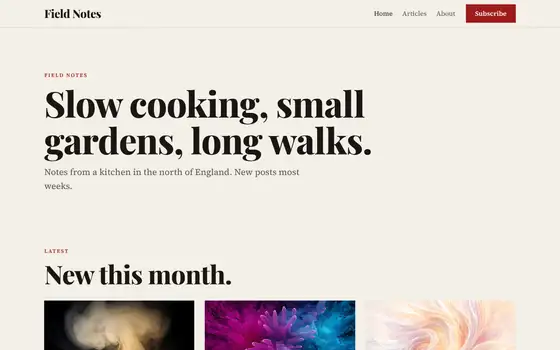
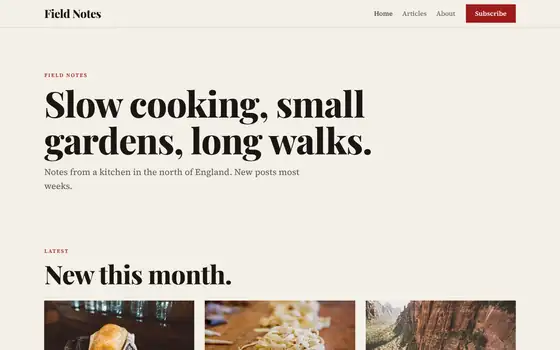
Site builder: templates use real photographs (coffee, restaurant, fitness, law, estate agent, wedding, podcast, docs, blog, nonprofit, app, photographer), refreshed thumbnails, heading wrap only on phones
Claude-Session: https://claude.ai/code/session_01KjCgApHxzQCxtiXf1eMKgi

Changed region(s): [[0.0607, 0.8571, 0.9411, 1.0]]

diff --git a/site/builder/templates2.js b/site/builder/templates2.js
@@ -10,11 +10,11 @@ add({id:'coffee',ctaLine:'Come in, we saved you a seat.',name:'Coffee shop and b
  footer:F('© 2027 Rye & Roast','Bread, coffee and not much else.','Pages','Home\nMenu\nOur bakers\nVisit','Follow','Instagram\nNewsletter','Say hello','hello@ryeandroast.example\n0161 000 0000'),
  pages:[
  {id:'home',name:'Home',title:'Rye & Roast · Bakery and coffee bar in Manchester',desc:'Slow-fermented bread, strong coffee and a warm room on Oak Street.',blocks:[
-  ['hero-image',{kicker:'Bakery and coffee bar · Manchester',heading:'Slow bread, strong coffee, warm mornings.',intro:'We bake every loaf for 36 hours and roast our coffee the day before it reaches your cup.',b1:'See the menu',b2:'Find us',img:'shelf/amber.webp',alt:'A glowing amber glaze, like a crust straight from the oven'},{0:'page:menu',1:'page:visit'}],
+  ['hero-image',{kicker:'Bakery and coffee bar · Manchester',heading:'Slow bread, strong coffee, warm mornings.',intro:'We bake every loaf for 36 hours and roast our coffee the day before it reaches your cup.',b1:'See the menu',b2:'Find us',img:'photos/drink-frothy-coffee-in-a-green-cup.webp',alt:'A frothy latte in a green cup on a wooden table'},{0:'page:menu',1:'page:visit'}],
   ['stats',{label:'The numbers',stats:'36 h | for every loaf to prove\n14 | loaves out of the oven by 7am\n6 | beans on rotation\n1 | very patient oven'}],
   ['feature-grid',{kicker:'What we do',heading:'A small menu, done properly.',intro:'Everything is made in the building. Most of it is gone by two.',items:'spark | Sourdough | Rye, spelt and a white loaf with a crackling crust.\nchat | Pastry | Laminated by hand: croissants, kouign-amann and a cardamom bun.\nbolt | Coffee | Espresso and filter from two roasters we visit twice a year.\nusers | Breakfast and lunch | Eggs, toasties and one soup that changes with the week.'}],
   ['quote',{quote:'The only place I will queue in the rain for. Get the cardamom bun.',name:'Priya Shah',role:'Regular, since opening week',initials:'PS'}],
-  ['gallery',{kicker:'Out of the oven',heading:'This morning.',images:'shelf/amber.webp | Honey glaze, still warm\nshelf/smoke.webp | Steam off the first batch\nshelf/sand.webp | Flour on the bench\nshelf/bloom.webp | Edible flowers on the tarts\nshelf/embroidery.webp | A scoring pattern, by hand\nshelf/sumi.webp | Rye, cut and dusted'}],
+  ['gallery',{kicker:'Out of the oven',heading:'This morning.',images:'photos/bakery-fresh-rustic-bread.webp | A rustic loaf, still warm\nphotos/bakery-mink-mingle-2017.webp | Croissants and pain au chocolat\nphotos/drink-black-coffee-cup.webp | Espresso, pulled slowly\nphotos/cafe-coffee-machine-grinding-beans.webp | Fresh grounds\nphotos/bakery-the-bakery.webp | The pastry counter\nphotos/cafe-copper-tea-kettles.webp | Tea, in copper'}],
   CTA('Come in, we saved you a seat.','Find us','page:visit')]},
  {id:'menu',name:'Menu',title:'Menu · Rye & Roast',desc:'Bread, pastry, coffee and lunch.',blocks:[
   H('Menu','Baked this morning.','Everything is made here and sold until it runs out.'),
@@ -45,7 +45,7 @@ add({id:'fitness',ctaLine:'Your first class is on us.',name:'Fitness studio',des
  {id:'classes',name:'Classes',title:'Classes · Forge',desc:'The weekly timetable and what each class is.',blocks:[
   H('Classes','Find the class that suits you.','Every class is scalable. If you can walk in, you can start.'),
   ['schedule',{kicker:'This week',heading:'The timetable.',rows:'Mon 06:30 | Strength | Jo | Floor 1\nMon 18:30 | Conditioning | Sam | Floor 1\nWed 07:00 | Strength | Jo | Floor 1\nThu 18:30 | Engine | Alex | Floor 2\nSat 09:00 | Everything | Jo and Sam | Floor 1\nSun 10:00 | Mobility | Alex | Studio'}],
-  ['feature-rows',{kicker:'The classes',heading:'Four ways to train.',rows:'Strength | Squat, press, pull and hinge with a coach on every set. | shelf/lion.webp\nConditioning | Short, hard, finished in 40 minutes. | shelf/ferro.webp\nEngine | Longer intervals to build the base under everything else. | shelf/threads.webp\nMobility | Slow work for joints, hips and shoulders. | shelf/sand.webp'}],
+  ['feature-rows',{kicker:'The classes',heading:'Four ways to train.',rows:'Strength | Squat, press, pull and hinge with a coach on every set. | photos/fitness-pair-of-8kg-dumbbells.webp\nConditioning | Short, hard, finished in 40 minutes. | photos/fitness-starting-line.webp\nEngine | Longer intervals to build the base under everything else. | photos/fitness-800-meter-line.webp\nMobility | Slow work for joints, hips and shoulders. | photos/fitness-oceanside-yoga.webp'}],
   ['sec-faq',{kicker:'First time',heading:'Before you come.',intro:'You do not need to be fit already.',button:'Ask a coach',qa:'What do I wear? | Anything you can move in. Trainers or bare feet.\nWhat if I am injured? | Tell the coach. Every movement can be changed.\nCan I bring a friend? | Yes. Members get a free guest pass each month.\nHow do I cancel? | One click in the app, no letters and no fees.'}]]},
  {id:'coaches',name:'Coaches',title:'Coaches · Forge',desc:'Meet the people who coach every class.',blocks:[
   H('Coaches','People who know your name.','Three coaches, one philosophy: do the basics well.'),
@@ -69,7 +69,7 @@ add({id:'law',ctaLine:'Talk to a partner this week.',name:'Law firm',desc:'Pract
   CTA('Talk to a partner this week.','Book a consultation','page:contact')]},
  {id:'practice',name:'Practice',title:'Practice areas · Hartley & Vane',desc:'What we advise on, and how we charge.',blocks:[
   H('Practice','What we advise on.','Plain advice, clear fees and no surprises.'),
-  ['feature-rows',{kicker:'In depth',heading:'Five areas of practice.',rows:'Company and commercial | From the first shareholder agreement to the sale of the business. | shelf/statue.webp\nProperty | Leases, purchases and development for owners and occupiers. | shelf/lighthouse.webp\nEmployment | Practical HR law for growing teams. | shelf/threads.webp'}],
+  ['feature-rows',{kicker:'In depth',heading:'Five areas of practice.',rows:'Company and commercial | From the first shareholder agreement to the sale of the business. | photos/office-old-books-on-bookshelf.webp\nProperty | Leases, purchases and development for owners and occupiers. | photos/property-apartment-building-balconies.webp\nEmployment | Practical HR law for growing teams. | photos/workspace-laptop-on-a-desk.webp'}],
   ['steps',{kicker:'How we work',heading:'From first call to completion.',steps:'Listen | A free 20-minute call to understand the problem.\nAdvise | A written plan with options and fixed fees.\nAct | We draft, negotiate and keep you updated weekly.\nCheck | A review after completion, so nothing is missed.'}],
   ['sec-faq',{kicker:'Fees',heading:'How we charge.',intro:'We prefer fixed fees where we can.',button:'Ask about fees',qa:'Do you offer fixed fees? | Yes, for most standard work. We agree it in writing first.\nIs the first call free? | Yes, twenty minutes, with a partner.\nHow quickly do you reply? | Within one working day, usually the same afternoon.\nDo you work with startups? | Yes, with fixed packages for formation and funding.'}]]},
  {id:'people',name:'People',title:'People · Hartley & Vane',desc:'The partners and team.',blocks:[
@@ -78,7 +78,7 @@ add({id:'law',ctaLine:'Talk to a partner this week.',name:'Law firm',desc:'Pract
   ['timeline',{kicker:'History',heading:'Thirty years in four lines.',events:'1994 | Founded | Two partners and one filing cabinet on George Street.\n2005 | Commercial property | Added a property team.\n2014 | Employment | Opened our employment practice.\n2024 | Today | Four partners, one very full diary.'}]]},
  {id:'insights',name:'Insights',title:'Insights · Hartley & Vane',desc:'Short guides for owners and landlords.',blocks:[
   H('Insights','Short guides, written by partners.','No jargon, no sales pitch.'),
-  ['blog',{kicker:'Latest',heading:'Recent guides.',button:'All guides',posts:'Property | 12 March | What to check before you sign a commercial lease | shelf/lighthouse.webp\nCompany | 4 March | Five clauses every shareholder agreement needs | shelf/statue.webp\nEmployment | 26 February | Changing a contract without a tribunal | shelf/threads.webp'}],
+  ['blog',{kicker:'Latest',heading:'Recent guides.',button:'All guides',posts:'Property | 12 March | What to check before you sign a commercial lease | photos/office-chantilly-library-study.webp\nCompany | 4 March | Five clauses every shareholder agreement needs | photos/office-on-the-shelf.webp\nEmployment | 26 February | Changing a contract without a tribunal | photos/workspace-books-pencils-laptop-and-iphon.webp'}],
   NEWS('Guides in your inbox.','One practical email a month, no spam.')]},
  {id:'contact',name:'Contact',title:'Contact · Hartley & Vane',desc:'Book a consultation or call the office.',blocks:[
   H('Contact','Tell us what you need.','A partner will reply within one working day.'),
@@ -90,15 +90,15 @@ add({id:'realestate',ctaLine:'Curious what your home is worth?',name:'Estate age
  footer:F('© 2027 Larch & Lane Ltd','Homes, found and sold with care.','Agency','Home\nHomes\nSelling\nTeam\nValuation','Follow','Instagram\nRightmove','Visit','hello@larchandlane.example\n020 7000 0000'),
  pages:[
  {id:'home',name:'Home',title:'Larch & Lane · Independent estate agents in south London',desc:'Sell or let your home with a local team that picks up the phone.',blocks:[
-  ['hero-image',{kicker:'Independent estate agents · South London',heading:'Selling homes the way neighbours would.',intro:'Honest valuations, beautiful photography and one agent from first viewing to completion.',b1:'Free valuation',b2:'See homes',img:'shelf/lighthouse.webp',alt:'A lighthouse standing against the evening sky, a symbol of finding home'},{0:'page:valuation',1:'page:homes'}],
+  ['hero-image',{kicker:'Independent estate agents · South London',heading:'Selling homes the way neighbours would.',intro:'Honest valuations, beautiful photography and one agent from first viewing to completion.',b1:'Free valuation',b2:'See homes',img:'photos/property-living-room.webp',alt:'A bright living room with a blue sofa and herringbone floor'},{0:'page:valuation',1:'page:homes'}],
   ['stats',{label:'Our record',stats:'97% | of asking price achieved\n24 days | average time to offer\n480 | homes sold last year\n4.9 | from 310 reviews'}],
-  ['product-grid',{kicker:'Featured',heading:'On the market now.',items:'Garden flat, Peckham | £485,000 | New | shelf/bloom.webp\nTerrace, Brockley | £725,000 |  | shelf/amber.webp\nLoft, Bermondsey | £610,000 | Offers | shelf/statue.webp\nCottage, Forest Hill | £895,000 |  | shelf/tree.webp'},{0:'page:homes',1:'page:homes',2:'page:homes',3:'page:homes',4:'page:homes'}],
+  ['product-grid',{kicker:'Featured',heading:'On the market now.',items:'Garden flat, Peckham | £485,000 | New | photos/property-colorful-apartment-building.webp\nTerrace, Brockley | £725,000 |  | photos/property-apartment-complex.webp\nLoft, Bermondsey | £610,000 | Offers | photos/property-apartment-building-balconies.webp\nCottage, Forest Hill | £895,000 |  | photos/property-coffee-table-corner-in-a-londo.webp'},{0:'page:homes',1:'page:homes',2:'page:homes',3:'page:homes',4:'page:homes'}],
   ['steps',{kicker:'Selling with us',heading:'Four steps to sold.',steps:'Value | A free, honest valuation with comparable sales.\nPrepare | Photography, floorplan and a listing that tells the story.\nMarket | Online, to our buyers list and in the window.\nComplete | One agent chases every step until the keys change hands.'}],
   ['quote',{quote:'They sold in nine days at above asking, and kept us calm the whole time.',name:'Tom and Lena Hart',role:'Sold in Brockley',initials:'TH'}],
   CTA('Curious what your home is worth?','Free valuation','page:valuation')]},
  {id:'homes',name:'Homes',title:'Homes for sale · Larch & Lane',desc:'Current properties for sale and to let.',blocks:[
   H('Homes','Homes for sale and to let.','Updated every morning by the people who show them.'),
-  ['product-grid',{kicker:'For sale',heading:'Buying.',items:'Garden flat, Peckham | £485,000 | New | shelf/bloom.webp\nTerrace, Brockley | £725,000 |  | shelf/amber.webp\nLoft, Bermondsey | £610,000 | Offers | shelf/statue.webp\nCottage, Forest Hill | £895,000 |  | shelf/tree.webp\nMews, Dulwich | £1,150,000 | New | shelf/lighthouse.webp\nStudio, New Cross | £310,000 |  | shelf/sand.webp'},{0:'page:valuation',1:'page:valuation',2:'page:valuation',3:'page:valuation',4:'page:valuation',5:'page:valuation',6:'page:valuation'}],
+  ['product-grid',{kicker:'For sale',heading:'Buying.',items:'Garden flat, Peckham | £485,000 | New | photos/property-colorful-apartment-building.webp\nTerrace, Brockley | £725,000 |  | photos/property-apartment-complex.webp\nLoft, Bermondsey | £610,000 | Offers | photos/property-apartment-building-balconies.webp\nCottage, Forest Hill | £895,000 |  | photos/property-coffee-table-corner-in-a-londo.webp\nMews, Dulwich | £1,150,000 | New | photos/property-apartment-high-rise-building.webp\nStudio, New Cross | £310,000 |  | photos/property-living-room.webp'},{0:'page:valuation',1:'page:valuation',2:'page:valuation',3:'page:valuation',4:'page:valuation',5:'page:valuation',6:'page:valuation'}],
   ['sec-faq',{kicker:'Buying',heading:'Questions from buyers.',intro:'Ask us anything about a home or the process.',button:'Ask a question',qa:'Can I view at the weekend? | Yes, Saturdays and most Sundays.\nDo you help with mortgages? | We introduce trusted independent advisers, with no obligation.\nHow do offers work? | You offer through us, we present it the same day and keep you updated.'}]]},
  {id:'selling',name:'Selling',title:'Selling your home · Larch & Lane',desc:'How we sell, what we charge and what to expect.',blocks:[
   H('Selling','How we sell your home.','A clear plan, a fixed fee and weekly updates.'),
@@ -118,7 +118,7 @@ add({id:'wedding',ctaLine:'Will you join us?',name:'Wedding',desc:'Our story, th
  footer:F('© 2027 Ella & Sam','We cannot wait to celebrate with you.','Pages','Home\nOur story\nThe day\nStay\nRSVP','Questions','ellaandsam@example.com','Dates','RSVP by 1 August'),
  pages:[
  {id:'home',name:'Home',title:'Ella & Sam · 20 September 2027',desc:'Join us to celebrate our wedding in the Cotswolds.',blocks:[
-  ['hero-image',{kicker:'20 September 2027 · The Cotswolds',heading:'Ella and Sam are getting married.',intro:'We would love you to be there. Everything you need is on these pages.',b1:'RSVP',b2:'The day',img:'shelf/dove.webp',alt:'A white dove in flight in soft light'},{0:'page:rsvp',1:'page:day'}],
+  ['hero-image',{kicker:'20 September 2027 · The Cotswolds',heading:'Ella and Sam are getting married.',intro:'We would love you to be there. Everything you need is on these pages.',b1:'RSVP',b2:'The day',img:'photos/wedding-aisle-for-a-wedding.webp',alt:'An aisle lined with gold chairs and pink and white flowers'},{0:'page:rsvp',1:'page:day'}],
   ['countdown',{kicker:'Save the date',heading:'Not long now.',intro:'Please reply by 1 August so we can plan the long table.',date:'2027-09-20',button:'RSVP'},{0:'page:rsvp'}],
   ['feature-grid',{kicker:'At a glance',heading:'What to know.',intro:'The essentials, in short.',items:'calendar | When | Saturday 20 September 2027, ceremony at 2pm.\npin | Where | Hallow Barn, Burford, Oxfordshire.\nheart | Dress | Garden party: colour welcome, flat shoes advised.\nusers | Children | Very welcome, with a play corner and a sitter.'}],
   ['quote',{quote:'We met in a queue for coffee. We have been in each other’s line ever since.',name:'Ella and Sam',role:'Our story, short version',initials:'ES'}],
@@ -126,14 +126,14 @@ add({id:'wedding',ctaLine:'Will you join us?',name:'Wedding',desc:'Our story, th
  {id:'story',name:'Our story',title:'Our story · Ella & Sam',desc:'How we met and how Sam proposed.',blocks:[
   H('Our story','How it began.','Seven years, two cities, one very patient dog.'),
   ['timeline',{kicker:'Timeline',heading:'Seven years in five moments.',events:'2020 | The queue | A coffee shop in Bristol, a wrong order and a long chat.\n2021 | First trip | A rainy weekend in Cornwall, still our favourite.\n2023 | Together | Moved in, adopted Biscuit the dog.\n2026 | The question | A proposal on the cliffs, with the dog as witness.\n2027 | The day | Surrounded by everyone we love.'}],
-  ['gallery',{kicker:'Photos',heading:'A few favourites.',images:'shelf/bloom.webp | Flowers from the first date\nshelf/embroidery.webp | A hand-stitched gift\nshelf/dove.webp | The dove that visited our proposal\nshelf/origami.webp | A crane from Sam’s grandmother'}]]},
+  ['gallery',{kicker:'Photos',heading:'A few favourites.',images:'photos/wedding-bujenka-poland.webp | Flowers for the day\nphotos/wedding-bridal-chair.webp | Shoes and a bouquet\nphotos/wedding-church-on-the-morning-of-the-w.webp | A quiet moment\nphotos/wedding-32.webp | Rings'}]]},
  {id:'day',name:'The day',title:'The day · Ella & Sam',desc:'Timings, venue and travel.',blocks:[
   H('The day','What happens when.','A relaxed day with plenty of time to talk.'),
   ['schedule',{kicker:'Saturday 20 September',heading:'The plan.',rows:'13:30 | Arrival and welcome drinks | Everyone | The orchard\n14:00 | Ceremony | Ella and Sam | The barn\n15:00 | Drinks and photographs | Everyone | The lawn\n17:30 | Wedding breakfast | Long table | The barn\n20:00 | Dancing | Everyone | The barn\n23:30 | Last song | Everyone | The barn'}],
   ['map-embed',{kicker:'Venue',heading:'Hallow Barn.',address:'Hallow Barn, Burford, Oxfordshire OX18 4AA',hours:'Parking | On site, free\nTaxis | We have booked shuttles after dinner',button:'Get directions',maplink:'https://www.openstreetmap.org/search?query=Burford%20Oxfordshire'}]]},
  {id:'stay',name:'Stay',title:'Stay · Ella & Sam',desc:'Where to stay and how to get there.',blocks:[
   H('Stay','Where to stay.','A few places nearby that we love.'),
-  ['feature-rows',{kicker:'Nearby',heading:'Our suggestions.',rows:'The Swan Inn | Ten minutes’ walk, a block of rooms held in our name until 1 July. | shelf/amber.webp\nBurford Cottages | Self-catering for families, a short drive. | shelf/tree.webp\nThe Old Mill | A quieter stay by the river, twenty minutes by car. | shelf/sand.webp'}],
+  ['feature-rows',{kicker:'Nearby',heading:'Our suggestions.',rows:'The Swan Inn | Ten minutes’ walk, a block of rooms held in our name until 1 July. | photos/nature-lush-mountain-landscape.webp\nBurford Cottages | Self-catering for families, a short drive. | photos/nature-mountain-lake-in-the-summer.webp\nThe Old Mill | A quieter stay by the river, twenty minutes by car. | photos/nature-green-mountain-landscape.webp'}],
   ['sec-faq',{kicker:'Travel',heading:'Getting there.',intro:'Short answers to the usual questions.',button:'Email us',qa:'How do I get there by train? | Charlbury is the nearest station; shuttles run from 1pm.\nIs there parking? | Yes, free on site.\nWhat if it rains? | The barn has room for everyone. Bring a coat anyway.'}]]},
  {id:'rsvp',name:'RSVP',title:'RSVP · Ella & Sam',desc:'Let us know if you can come.',blocks:[
   H('RSVP','Will you be there?','Please reply by 1 August.'),
@@ -146,12 +146,12 @@ add({id:'podcast',ctaLine:'Press play on something slow.',name:'Podcast or creat
  {id:'home',name:'Home',title:'Slow Radio · A weekly podcast about careful making',desc:'Conversations at walking pace with potters, bakers, printers and other people who take their time.',blocks:[
   ['hero-split',{film:'lissajous-drawing',kicker:'A weekly podcast',heading:'Conversations at walking pace.',intro:'Every Thursday, one maker, one hour and no rush. Listen to potters, printers, bakers and people who take their time.',b1:'Latest episode',b2:'All episodes',note:'New episode every Thursday'},{0:'page:episodes',1:'page:episodes'}],
   ['stats',{label:'The show',stats:'112 | episodes so far\n48,000 | listeners a month\n4.9 | rating on Apple Podcasts\n1 | very good microphone'}],
-  ['blog',{kicker:'Latest',heading:'Recent episodes.',button:'All episodes',posts:'Episode 112 | 4 March | The potter who fires only once a year | shelf/amber.webp\nEpisode 111 | 25 February | Why a printer kept her father’s press | shelf/threads.webp\nEpisode 110 | 18 February | Baking for a village of 400 | shelf/smoke.webp'},{0:'page:episodes'}],
+  ['blog',{kicker:'Latest',heading:'Recent episodes.',button:'All episodes',posts:'Episode 112 | 4 March | The potter who fires only once a year | photos/podcast-blue-condenser-microphone.webp\nEpisode 111 | 25 February | Why a printer kept her father’s press | photos/podcast-elegant-steel-microphone.webp\nEpisode 110 | 18 February | Baking for a village of 400 | photos/podcast-microphone.webp'},{0:'page:episodes'}],
   ['press',{label:'What people say',quotes:'The calmest hour of my week. | The Maker’s Journal\nProof that slow radio is good radio. | Culture Weekly'}],
   NEWS('Notes from the studio.','One short email a week, with the episode and what we are reading.','Join')]},
  {id:'episodes',name:'Episodes',title:'Episodes · Slow Radio',desc:'Every episode of Slow Radio.',blocks:[
   H('Episodes','Every episode.','Newest first. Listen here or wherever you get podcasts.'),
-  ['blog',{kicker:'2027',heading:'This year.',button:'Subscribe',posts:'Episode 112 | 4 March | The potter who fires only once a year | shelf/amber.webp\nEpisode 111 | 25 February | Why a printer kept her father’s press | shelf/threads.webp\nEpisode 110 | 18 February | Baking for a village of 400 | shelf/smoke.webp\nEpisode 109 | 11 February | Fixing furniture for a living | shelf/sand.webp\nEpisode 108 | 4 February | The last hand-tuned piano in Leeds | shelf/sumi.webp\nEpisode 107 | 28 January | A year of mending everything | shelf/embroidery.webp'}],
+  ['blog',{kicker:'2027',heading:'This year.',button:'Subscribe',posts:'Episode 112 | 4 March | The potter who fires only once a year | photos/podcast-blue-condenser-microphone.webp\nEpisode 111 | 25 February | Why a printer kept her father’s press | photos/podcast-elegant-steel-microphone.webp\nEpisode 110 | 18 February | Baking for a village of 400 | photos/podcast-microphone.webp\nEpisode 109 | 11 February | Fixing furniture for a living | photos/podcast-ben-koorengevel-2017-03-17.webp\nEpisode 108 | 4 February | The last hand-tuned piano in Leeds | photos/podcast-jonathan-velasquez-2016.webp\nEpisode 107 | 28 January | A year of mending everything | photos/podcast-kai-oberh-user-2016-02-26.webp'}],
   ['integrations',{kicker:'Listen',heading:'Wherever you listen.',intro:'Subscribe and never miss an episode.',tools:'Apple Podcasts | Follow and rate us\nSpotify | Listen on your commute\nOvercast | For the long walk\nRSS | Use any player'}]]},
  {id:'about',name:'About',title:'About · Slow Radio',desc:'About the host and the show.',blocks:[
   H('About','Hello, I’m Mira.','I make a podcast about people who take their time.'),
@@ -169,7 +169,7 @@ add({id:'docs',ctaLine:'Draw your first chart in five minutes.',name:'Documentat
  {id:'home',name:'Home',title:'Plume · Documentation',desc:'Everything you need to draw fast, accessible charts with Plume.',blocks:[
   ['hero-center',{badge:'v2.4',news:'Faster rendering, smaller bundles',heading:'Charts that load in a blink.',intro:'Plume is a 6 KB library for drawing accessible charts in the browser. These docs take you from install to production.',b1:'Get started',b2:'Reference',proof:'Used by 4,000 projects'},{1:'page:start',2:'page:reference'}],
   ['feature-grid',{kicker:'Why Plume',heading:'Small, fast, accessible.',intro:'Built for people who care about the details.',items:'bolt | Fast | Draws 10,000 points in under 16 ms on a mid-range phone.\nshield | Accessible | Keyboard navigation, screen reader summaries and colour-safe palettes by default.\nspark | Tiny | 6 KB gzipped, no dependencies, tree-shakeable.\ncode | Friendly | A small API with TypeScript types and plenty of examples.'}],
-  ['tabs',{kicker:'Quick look',heading:'Three lines to a chart.',tabs:'Install | npm install plume | Add Plume with your package manager, or load it from a CDN. | shelf/threads.webp\nDraw | plume.line(el, data) | Pass an element and an array of numbers or dates. | shelf/nebula.webp\nStyle | plume.theme(\'calm\') | Pick a theme or set your own colours and fonts. | shelf/sand.webp'}],
+  ['tabs',{kicker:'Quick look',heading:'Three lines to a chart.',tabs:'Install | npm install plume | Add Plume with your package manager, or load it from a CDN. | photos/tech-code-on-computer-monitor.webp\nDraw | plume.line(el, data) | Pass an element and an array of numbers or dates. | photos/tech-lines-of-code.webp\nStyle | plume.theme(\'calm\') | Pick a theme or set your own colours and fonts. | photos/tech-colorful-lines-of-code.webp'}],
   ['integrations',{kicker:'Works with',heading:'Fits your stack.',intro:'Official adapters for popular frameworks.',tools:'React | A hook and a component\nVue | A composable\nSvelte | An action\nPlain HTML | One script tag'}],
   CTA('Draw your first chart in five minutes.','Get started','page:start')]},
  {id:'start',name:'Get started',title:'Get started · Plume',desc:'Install Plume and draw your first chart.',blocks:[
@@ -235,7 +235,7 @@ L({id:'lp-launch',name:'Landing: product launch',desc:'Announce a product with a
  CTA('Hear it before it’s loud.','Start free','#')]);
 
 L({id:'lp-app',name:'Landing: app download',desc:'A phone-first page with store buttons and reasons to download.',brand:'Ledger',style:'ds:D46',siteDesc:'Ledger is a calm personal finance app. Download it free on iPhone and Android.',line:'Calm personal finance.'},[
- ['hero-image',{kicker:'Free on iPhone and Android',heading:'Money, without the knot in your stomach.',intro:'Ledger sorts every payment, shows what is safe to spend and nudges you before bills land.',b1:'Get the app',b2:'See how it works',img:'shelf/bloom.webp',alt:'Soft colour blooming outwards, calm and unhurried'}],
+ ['hero-image',{kicker:'Free on iPhone and Android',heading:'Money, without the knot in your stomach.',intro:'Ledger sorts every payment, shows what is safe to spend and nudges you before bills land.',b1:'Get the app',b2:'See how it works',img:'photos/workspace-books-pencils-laptop-and-iphon.webp',alt:'A laptop, notebooks and a phone on a tidy desk'}],
  ['stats',{label:'In numbers',stats:'£356 | saved in three months, on average\n22,000 | people budgeting with Ledger\n0 | adverts, ever\n4.8 | average rating'}],
  ['feature-grid',{kicker:'Features',heading:'The quiet details.',intro:'Built to be opened for ten seconds, not ten minutes.',items:'chart | Safe to spend | One number for the rest of the month.\nbolt | Bill nudges | A gentle note before money leaves.\nusers | Shared budgets | One view for two people.\nlock | Bank-grade security | Read-only access, nothing stored on our side.'}],
  ['app-download',{film:'pigment-bloom',kicker:'On your phone',heading:'Take it with you.',intro:'Free on iPhone and Android.'}],

diff --git a/site/builder/templates.js b/site/builder/templates.js
@@ -99,7 +99,7 @@ add({id:'restaurant',ctaLine:'Come hungry.',name:'Restaurant',desc:'Menu, story,
  {id:'home',name:'Home',title:'Saffron & Salt · Fire-cooked food in East London',desc:'A neighbourhood restaurant cooking over fire. Book a table.',blocks:[
   ['hero-film',{film:'smoke-plume',kicker:'Tuesday to Sunday',heading:'Cooked over fire, shared at the table.',intro:'Seasonal plates from a wood-burning kitchen in Hackney. Good wine, no fuss.',b1:'Book a table',b2:'See the menu'},{0:'page:visit',1:'page:menu'}],
   ['statement',{kicker:'Our idea',text:'We cook what the market has on the day, over embers, and put it in the middle of the table so everyone can reach it.'}],
-  ['feature-rows',{kicker:'The kitchen',heading:'Simple, then smoky.',rows:'Fire first | Everything touches the embers: bread, fish, vegetables and the occasional pudding. | shelf/amber.webp\nMarket led | We buy from three farms and one fishmonger, and print the menu each morning. | shelf/bloom.webp\nPour well | A short list of small growers, natural where it’s good and classic where it’s better. | shelf/smoke.webp'}],
+  ['feature-rows',{kicker:'The kitchen',heading:'Simple, then smoky.',rows:'Fire first | Everything touches the embers: bread, fish, vegetables and the occasional pudding. | photos/food-handmade-pasta-noodles.webp\nMarket led | We buy from three farms and one fishmonger, and print the menu each morning. | photos/food-gluten-free-gnocchi.webp\nPour well | A short list of small growers, natural where it’s good and classic where it’s better. | photos/food-bread-on-the-table.webp'}],
   ['press',{label:'Said about us',quotes:'The best bread basket in Hackney. | London Eats\nFire, salt and nothing to hide behind. | The Weekend Paper'}],
   CTA('Come hungry.','Book a table','page:visit')]},
  {id:'menu',name:'Menu',title:'Menu · Saffron & Salt',desc:'This week’s menu.',blocks:[
@@ -120,14 +120,14 @@ add({id:'photographer',ctaLine:'Let’s make something.',name:'Photographer',des
  pages:[
  {id:'home',name:'Home',title:'Elio Marsh · Documentary and portrait photographer',desc:'Photographs of people, places and quiet moments.',blocks:[
   ['hero-film',{film:'suminagashi',kicker:'Documentary and portrait',heading:'Pictures that wait for the moment.',intro:'Commissions, editorial and long-form projects across Europe.',b1:'View portfolio',b2:'Book a shoot'},{0:'page:portfolio',1:'page:contact'}],
-  ['gallery',{kicker:'Recent',heading:'Latest frames.',images:'shelf/lighthouse.webp | Lighthouse at dusk\nshelf/statue.webp | Marble, morning\nshelf/tree.webp | The old oak\nshelf/lion.webp | Gate, Lisbon\nshelf/jellyfish.webp | Aquarium, night\nshelf/biolum.webp | Bioluminescence'}],
+  ['gallery',{kicker:'Recent',heading:'Latest frames.',images:'photos/nature-alpine-landscape.webp | Alpine light\nphotos/city-flatiron-at-night.webp | Flatiron at night\nphotos/nature-mountain-lake.webp | A mountain lake\nphotos/city-city-from-docks-at-night.webp | Harbour lights\nphotos/nature-flachau-mountain-valley.webp | Valley, late sun\nphotos/city-bogot-city-and-street-lights.webp | Street lights, Bogotá'}],
   ['press',{label:'Published in',quotes:'Quietly devastating. | The Weekend Paper\nA photographer with patience. | Frame Monthly'}],
   CTA('Let’s make something.','Book a shoot','page:contact')]},
  {id:'portfolio',name:'Portfolio',title:'Portfolio · Elio Marsh',desc:'Series and commissions.',blocks:[
   H('Portfolio','Series and commissions.','Long projects first, then single assignments.'),
   ['case-study',{client:'Series · The last ferry',heading:'Six months on the Douro.',img:'films/golden-dove.jpg',alt:'A golden dove in flight',results:'62 | frames in the book\n3 | countries exhibited\n1 | cover story',challenge:'Documenting a river crossing that was about to end.',approach:'Riding the ferry every week and learning the names of regulars.'}],
   ['image-full',{img:'films/pigment-bloom.jpg',alt:'Pigment blooming in water',caption:'Pigment study, from the Douro series.'}],
-  ['gallery',{kicker:'More',heading:'Selected portraits.',images:'shelf/embroidery.webp | The seamstress\nshelf/owl.webp | Owl\nshelf/dove.webp | Dove\nshelf/amber.webp | Amber'}]]},
+  ['gallery',{kicker:'More',heading:'Selected portraits.',images:'photos/nature-green-mountain-landscape.webp | Green hills\nphotos/nature-mountain-lake-in-the-summer.webp | Lake in summer\nphotos/city-city-night-lights.webp | Lights on the water\nphotos/city-new-york-city-center-street-at.webp | City at night'}]]},
  {id:'about',name:'About',title:'About · Elio Marsh',desc:'About Elio.',blocks:[
   H('About','I photograph what people don’t notice.','Based in Porto, working everywhere.'),
   ['rich-text',{kicker:'Biography',heading:'Fifteen years, one camera at a time.',paras:'I studied documentary photography in Newcastle and have worked for magazines, charities and small companies ever since.\nI believe the best photographs are patient ones. I spend time with people before I lift the camera.\nMy work has been exhibited in Porto, Berlin and Arles.'}],
@@ -168,13 +168,13 @@ add({id:'blog',ctaLine:'Never miss a note.',name:'Personal blog',desc:'Index, an
   H('Archive','All articles.','Everything, newest first.'),
   ['x-posts',{kicker:'Everything',heading:'Every post.',count:'100'}]]},
  {id:'steak',name:'Why we rest every steak',kind:'post',date:'2027-03-12',title:'Why we rest every steak for exactly as long as it cooked · Field Notes',desc:'Why we rest every steak for exactly as long as it cooked',blocks:[
-  ['blog-post',{tag:'Technique',heading:'Why we rest every steak for exactly as long as it cooked',author:'Maya Okafor',date:'12 March 2027',read:'5 min read',img:'films/smoke-plume.jpg',alt:'Steam rising from a pan',paras:'Resting meat is the oldest advice in the kitchen and the least followed. The reason is simple: heat pushes juice towards the centre, and a few quiet minutes let it spread back out.\n## What we tested\nWe cut forty steaks at one, five and ten minutes. The difference in what ended up on the board was not subtle.\n> Rest for as long as it cooked, loosely covered, somewhere warm. Then slice.\n## The rule\n- Cook to a few degrees under your target\n- Rest loosely covered, for as long as it cooked\n- Slice across the grain',initials:'MO',bio:'Writes Field Notes from a kitchen in the north of England.'}],
+  ['blog-post',{tag:'Technique',heading:'Why we rest every steak for exactly as long as it cooked',author:'Maya Okafor',date:'12 March 2027',read:'5 min read',img:'photos/food-bread-on-the-table.webp',alt:'A loaf of bread in a wire basket on a cloth',paras:'Resting meat is the oldest advice in the kitchen and the least followed. The reason is simple: heat pushes juice towards the centre, and a few quiet minutes let it spread back out.\n## What we tested\nWe cut forty steaks at one, five and ten minutes. The difference in what ended up on the board was not subtle.\n> Rest for as long as it cooked, loosely covered, somewhere warm. Then slice.\n## The rule\n- Cook to a few degrees under your target\n- Rest loosely covered, for as long as it cooked\n- Slice across the grain',initials:'MO',bio:'Writes Field Notes from a kitchen in the north of England.'}],
   NEWS('Liked this?','The next one lands next month.')]},
  {id:'rhubarb',name:'Forced rhubarb, four ways',kind:'post',date:'2027-03-04',title:'Forced rhubarb, and four things to do with it · Field Notes',desc:'Forced rhubarb, and four things to do with it',blocks:[
-  ['blog-post',{tag:'Seasonal',heading:'Forced rhubarb, and four things to do with it',author:'Maya Okafor',date:'4 March 2027',read:'4 min read',img:'films/pigment-bloom.jpg',alt:'Pink and magenta pigment blooming in water',paras:'Forced rhubarb is the brightest thing in the market in February, and it asks for very little.\n## Roast it\nToss in sugar and orange zest and roast until it just gives. Spoon over yoghurt.\n## Pickle it\nA quick pickle makes a sharp, pink relish for fish and rich meats.\n> The trick is to stop a minute before you think you should.\n## And the other two\n- Poach it in elderflower syrup\n- Fold it into a crumble with oats and butter',initials:'MO',bio:'Writes Field Notes from a kitchen in the north of England.'}],
+  ['blog-post',{tag:'Seasonal',heading:'Forced rhubarb, and four things to do with it',author:'Maya Okafor',date:'4 March 2027',read:'4 min read',img:'photos/food-handmade-pasta-noodles.webp',alt:'Fresh handmade pasta laid out on a wooden board',paras:'Forced rhubarb is the brightest thing in the market in February, and it asks for very little.\n## Roast it\nToss in sugar and orange zest and roast until it just gives. Spoon over yoghurt.\n## Pickle it\nA quick pickle makes a sharp, pink relish for fish and rich meats.\n> The trick is to stop a minute before you think you should.\n## And the other two\n- Poach it in elderflower syrup\n- Fold it into a crumble with oats and butter',initials:'MO',bio:'Writes Field Notes from a kitchen in the north of England.'}],
   NEWS('Liked this?','The next one lands next month.')]},
  {id:'wind',name:'A small garden in a very large wind',kind:'post',date:'2027-02-26',title:'A small garden in a very large wind · Field Notes',desc:'A small garden in a very large wind',blocks:[
-  ['blog-post',{tag:'Garden',heading:'A small garden in a very large wind',author:'Maya Okafor',date:'26 February 2027',read:'3 min read',img:'films/petal-swirl.jpg',alt:'Petals swirling in the wind',paras:'Our garden is eleven paces long and faces the sea. Everything that grows here has learned to lean.\n## What survives\nSea kale, rosemary, hardy geraniums and one stubborn fig that sulks every March.\n## What does not\nAnything tall. Anything proud. Anything that cost more than a fiver.\n> A windbreak is not a wall. It is a conversation with the weather.',initials:'MO',bio:'Writes Field Notes from a kitchen in the north of England.'}],
+  ['blog-post',{tag:'Garden',heading:'A small garden in a very large wind',author:'Maya Okafor',date:'26 February 2027',read:'3 min read',img:'photos/nature-lush-mountain-landscape.webp',alt:'A lush green mountain landscape',paras:'Our garden is eleven paces long and faces the sea. Everything that grows here has learned to lean.\n## What survives\nSea kale, rosemary, hardy geraniums and one stubborn fig that sulks every March.\n## What does not\nAnything tall. Anything proud. Anything that cost more than a fiver.\n> A windbreak is not a wall. It is a conversation with the weather.',initials:'MO',bio:'Writes Field Notes from a kitchen in the north of England.'}],
   NEWS('Liked this?','The next one lands next month.')]},
  {id:'about',name:'About',title:'About · Field Notes',desc:'About the blog.',blocks:[
   H('About','Hello, I’m Maya.','I write about the small things that make a day better.'),
@@ -205,7 +205,7 @@ add({id:'shop',ctaLine:'Find something small and good.',name:'Shop / product lau
 add({id:'nonprofit',ctaLine:'Help us keep the door open.',name:'Nonprofit',desc:'Mission, programmes, donate and get involved.',brand:'Open Door',style:'kit:civic',cta:['Donate','donate'],siteDesc:'Open Door provides warm meals, a quiet room and someone to talk to.',footer:[0,{line:'Warm meals and someone to talk to.',c1:'About',links1:'Home\nProgrammes\nGet involved\nDonate',c2:'Follow',links2:'Facebook\nInstagram',c3:'Contact',links3:'hello@opendoor.example\n020 7946 0000',legal:'Registered charity 000000'}],
  pages:[
  {id:'home',name:'Home',title:'Open Door · Warm meals and someone to talk to',desc:'A neighbourhood charity for people who are lonely, hungry or in between homes.',blocks:[
-  ['hero-image',{kicker:'Spring appeal · £36,400 raised so far',heading:'Warm meals, and someone to talk to.',intro:'Open Door has been a neighbourhood table for 18 years. Everyone is welcome and nobody is asked why.',b1:'Donate',b2:'Our programmes',img:'shelf/dove.webp',alt:'A white dove in soft light, a symbol of welcome'},{0:'page:donate',1:'page:programmes'}],
+  ['hero-image',{kicker:'Spring appeal · £36,400 raised so far',heading:'Warm meals, and someone to talk to.',intro:'Open Door has been a neighbourhood table for 18 years. Everyone is welcome and nobody is asked why.',b1:'Donate',b2:'Our programmes',img:'photos/food-latte-and-croissant.webp',alt:'Croissants and a latte on a table, set for a warm welcome'},{0:'page:donate',1:'page:programmes'}],
   ['stats',{label:'Last year',stats:'12,000 | hot meals\n420 | people welcomed\n86 | volunteers\n18 | years open'}],
   ['feature-grid',{kicker:'What we do',heading:'Three ways we help.',intro:'',items:'home | A warm place | A quiet room open six days a week.\nheart | A hot meal | Cooked fresh, every lunchtime.\nchat | Someone to talk to | Trained volunteers and a friendly ear.'}],
   ['quote',{quote:'I walked in for soup and left with a friend.',name:'Gerry',role:'Guest since 2021',initials:'G'}],
@@ -213,7 +213,7 @@ add({id:'nonprofit',ctaLine:'Help us keep the door open.',name:'Nonprofit',desc:
  {id:'programmes',name:'Programmes',title:'Programmes · Open Door',desc:'What we run each week.',blocks:[
   H('Programmes','What happens at Open Door.','Free, drop-in and open to everyone.'),
   ['schedule',{kicker:'Every week',heading:'The week at a glance.',rows:'Mon | Lunch and chat | Volunteers | Hall\nWed | Advice drop-in | Citizens Advice | Room 2\nThu | Choir | Open to all | Hall\nSat | Big breakfast | Everyone | Hall'}],
-  ['feature-rows',{kicker:'Stories',heading:'What it looks like.',rows:'Lunch for everyone | Hot, fresh and served at tables with real plates. | shelf/amber.webp\nA quiet room | Books, tea and time. | shelf/sumi.webp'}]]},
+  ['feature-rows',{kicker:'Stories',heading:'What it looks like.',rows:'Lunch for everyone | Hot, fresh and served at tables with real plates. | photos/cafe-coffee-in-montreal.webp\nA quiet room | Books, tea and time. | photos/office-old-books-on-bookshelf.webp'}]]},
  {id:'involved',name:'Get involved',title:'Get involved · Open Door',desc:'Volunteer or fundraise.',blocks:[
   H('Get involved','Give an afternoon.','Volunteers are the heart of Open Door.'),
   ['steps',{kicker:'Volunteer',heading:'How it works.',steps:'Say hello | Fill in a short form or drop in on a Monday.\nGet to know us | A chat and a shadowing shift.\nJoin the rota | Pick a regular slot that suits you.'}],
@@ -248,7 +248,7 @@ add({id:'course',ctaLine:'Your first cylinder awaits.',name:'Online course',desc
 add({id:'app',ctaLine:'Take it with you.',name:'App landing',desc:'Hero, features, pricing and download.',brand:'Ledger',style:'ds:D46',cta:['Get the app','download'],siteDesc:'Ledger sorts every payment and shows what is safe to spend.',footer:[0,{line:'Calm personal finance.',c1:'App',links1:'Home\nFeatures\nPricing\nDownload',c2:'Company',links2:'About\nCareers\nPress',c3:'Legal',links3:'Privacy\nTerms\nSecurity',legal:'© 2027 Ledger Ltd. Authorised by the FCA.'}],
  pages:[
  {id:'home',name:'Home',title:'Ledger · Calm personal finance',desc:'Ledger sorts every payment and shows what is safe to spend.',blocks:[
-  ['hero-image',{kicker:'New · shared budgets for couples',heading:'Money, without the knot in your stomach.',intro:'Ledger sorts every payment, shows what’s safe to spend and nudges you before bills land. Rated 4.8 by 22,000 people.',b1:'Get the app',b2:'See features',img:'shelf/bloom.webp',alt:'Soft colour blooming outwards, calm and unhurried'},{0:'page:download',1:'page:features'}],
+  ['hero-image',{kicker:'New · shared budgets for couples',heading:'Money, without the knot in your stomach.',intro:'Ledger sorts every payment, shows what’s safe to spend and nudges you before bills land. Rated 4.8 by 22,000 people.',b1:'Get the app',b2:'See features',img:'photos/workspace-books-pencils-laptop-and-iphon.webp',alt:'A laptop, notebooks and a phone on a tidy desk'},{0:'page:download',1:'page:features'}],
   ['stats',{label:'Results',stats:'£412 | saved in the first three months, on average\n22,000 | people budgeting with Ledger\n0 | adverts, ever\n4.8 | average rating'}],
   ['quote',{quote:'For the first time I know what I can spend on a Thursday without opening four apps.',name:'Hannah Cole',role:'Teacher, Manchester',initials:'HC'}],
   ['app-download',{film:'light-threads',kicker:'On your phone',heading:'Take it with you.',intro:'Free on iPhone and Android.'}]]},

diff --git a/site/builder/app.js b/site/builder/app.js
@@ -120,7 +120,7 @@ function withTokens(st,acc){const tk=site.tokens;if(!tk||!Object.keys(tk).length
  if(names.length)fonts=[fonts,PB.styles.gq(names)].filter(Boolean).join('&');
  if(tk.btn==='sharp')acc.css.set('pb-tk-btn','.btn{border-radius:0!important}');else if(tk.btn==='pill')acc.css.set('pb-tk-btn','.btn{border-radius:999px!important}');
  return {...st,vars:vars+';'+o.join(';'),fonts}}
-const buildCSS=(st,acc)=>':root{'+st.vars+'}\n'+(st.face||'')+LIB.base+'.h{text-transform:var(--case,none)}h1,h2,h3{overflow-wrap:anywhere}@media (prefers-reduced-motion:no-preference){html{scroll-behavior:smooth}}html{scroll-padding-top:72px}@media print{.pb-sticky{position:static!important}video,.ctrl,form{display:none!important}body{background:#fff!important;color:#000!important}a{text-decoration:underline}.x-nf{min-height:0!important}}\n'+[...acc.css.values()].join('\n');
+const buildCSS=(st,acc)=>':root{'+st.vars+'}\n'+(st.face||'')+LIB.base+'.h{text-transform:var(--case,none)}@media (max-width:700px){h1,h2,h3{overflow-wrap:anywhere}}@media (prefers-reduced-motion:no-preference){html{scroll-behavior:smooth}}html{scroll-padding-top:72px}@media print{.pb-sticky{position:static!important}video,.ctrl,form{display:none!important}body{background:#fff!important;color:#000!important}a{text-decoration:underline}.x-nf{min-height:0!important}}\n'+[...acc.css.values()].join('\n');
 const fontURLOf=acc=>acc.fonts.size?'https://fonts.googleapis.com/css2?'+[...acc.fonts].join('&')+'&display=swap':'';
 function compose(mode,pg,acc,opt){ // mode: preview | html | zip  -> parts for one page (header + page + footer). acc shares css/fonts/files between pages.
  pg=pg||curPage();acc=acc||newAcc();

diff --git a/site/sw.js b/site/sw.js
@@ -1,7 +1,7 @@
 /* Visual & Motion Atlas service worker: the atlas keeps working offline.
    Same-origin GETs are served from cache when present and refreshed in the background;
    pages fall back to the cached shell when the network is down. Video is never cached. */
-const CACHE='atlas-v124';
+const CACHE='atlas-v125';
 const SHELL=['atlas.html','lazy-bg.js','app.css','home.css','atlas-theme.css','atlas-enhance.css','atlas-nav.css','atlas-nav.js','component-lab.css','effects-lab.css','motion-lab.css','new-styles.css','atlas-features.css','specimen-films.css','live-sims.css','atlas-share.css','atlas-explore.css','atlas-tours.css','atlas-refine.css','system-previews.css','art-references.js','art-references.css','art-references.json','backgrounds.js','backgrounds.css','showcase.js','showcase.css','studio-river.js','studio-river.css','app.js','home.js','hero-scenes.js','atlas-themes.js','component-lab.js','effects-lab.js','motion-lab.js','new-styles.js','atlas-features.js','specimen-films.js','live-sims.js','atlas-share.js','atlas-explore.js','atlas-tours.js','atlas-refine.js','system-previews.js','atlas-enhance.js','catalogue.json','expansion.json','content.json'];
 self.addEventListener('install',e=>{e.waitUntil(caches.open(CACHE).then(c=>c.addAll(SHELL).catch(()=>{})).then(()=>self.skipWaiting()));});
 self.addEventListener('activate',e=>{e.waitUntil(caches.keys().then(k=>Promise.all(k.filter(x=>x!==CACHE).map(x=>caches.delete(x)))).then(()=>self.clients.claim()));});

diff --git a/README.md b/README.md
@@ -281,7 +281,7 @@ static site or publish it to a live address. Old single-page saves open as one-p
   are resized to 2400 px and stored as WebP (PNG when transparent); "My images" lists them with rename, alt text, add and
   delete. Each image has a focus point (click the part that must stay in view; stored as `<field>_fp`, rendered as
   `object-position`). Exports add width and height, async decoding and `srcset` (640 / 1280 px copies of uploads, 640 px
-  copies of photos). Licence table: `docs/image-licences.md`.
+  copies of photos). Templates for places, food, property, fitness, weddings, podcasts, documentation and offices use these photographs (the abstract atlas art stays on the design, paper and product templates). Licence table: `docs/image-licences.md`.
 - **Speed:** films in the canvas load their poster first and start when they scroll into view; library previews and
   embedded frames are lazy.
 - **Pages and sites:** a site has pages (add, rename, duplicate, reorder, delete, home page, file names), a shared
